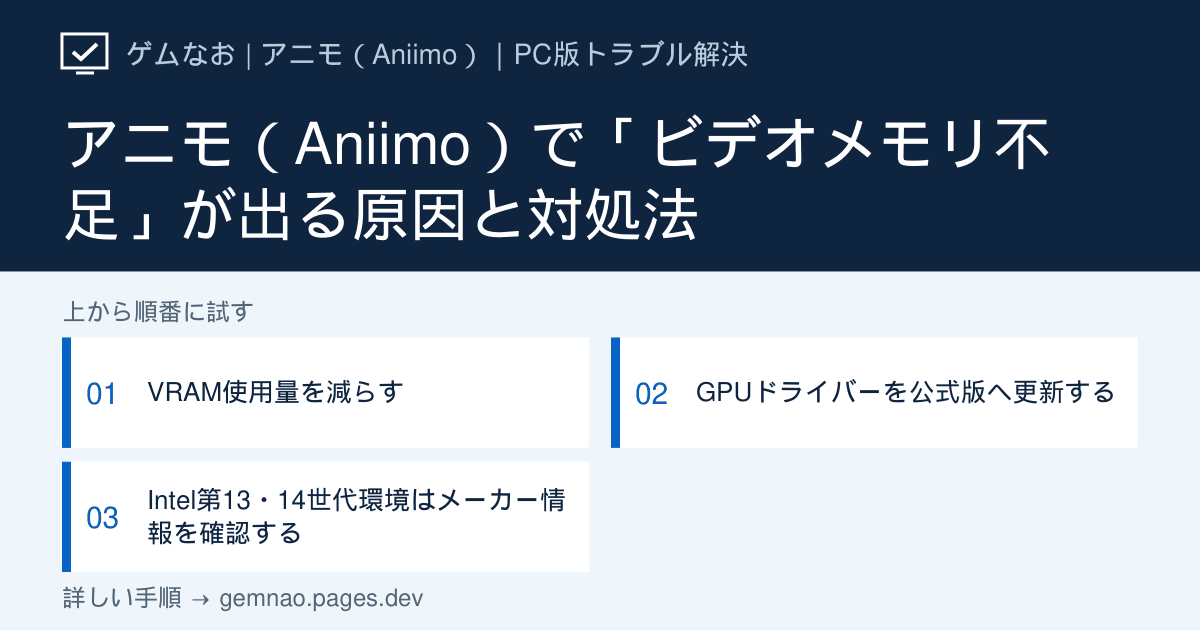
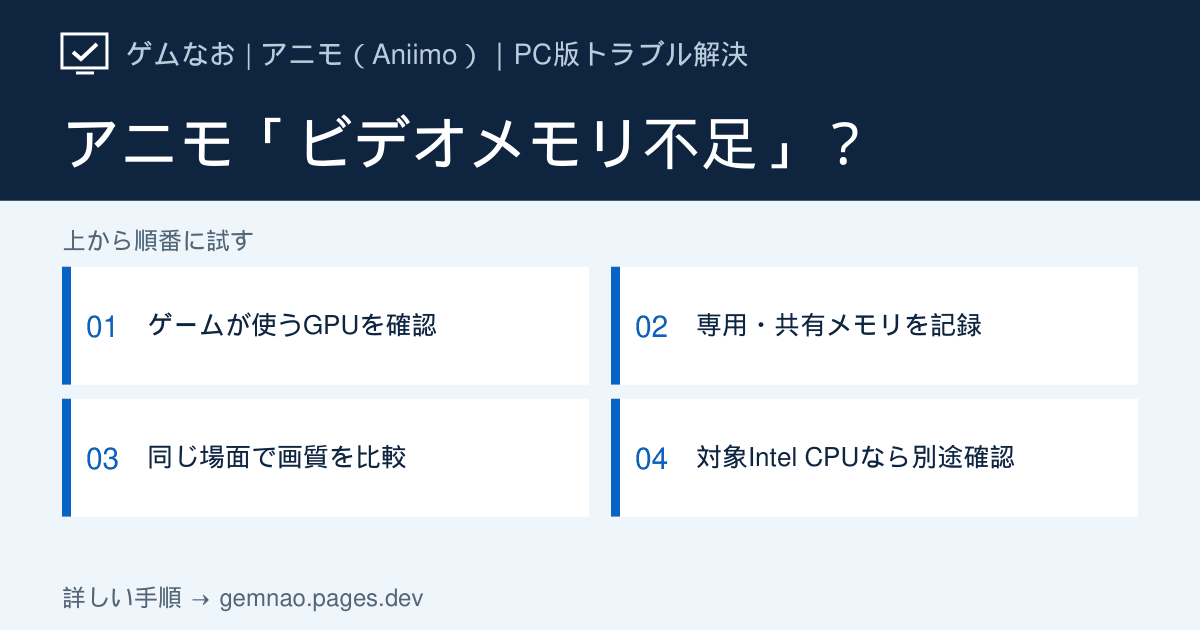
Rewrite Aniimo video memory troubleshooting and Intel branch

diff --git a/lib/aniimo-articles.ts b/lib/aniimo-articles.ts
@@ -666,98 +666,196 @@ export const aniimoArticles: GameArticle[] = [
     gameSlug: 'aniimo',
     slug: 'video-memory-error',
     category: 'display',
-    title: 'アニモ（Aniimo）で「ビデオメモリ不足」が出る原因と対処法',
+    title:
+      'アニモ（Aniimo）の「ビデオメモリ不足」の直し方｜GPUメモリの見方とIntel CPUの確認',
     shortTitle: 'ビデオメモリ不足',
     symptom:
-      '起動時やプレイ中にビデオメモリ不足を示す表示が出る、または描画開始時に終了する場合の確認手順です。',
+      '「ビデオメモリ不足」と表示されて終了する、画質を下げても同じエラーが出る。表示とGPUメモリ使用量が一致するか確かめ、Intel第13・14世代デスクトップCPUの場合は別の原因も調べます。',
     conclusion:
-      '高負荷な設定と同時起動アプリを減らし、GPUドライバーを更新します。Intel第13・14世代CPUを使う場合も、Aniimo公式が原因と確認したとは断定せず、PCメーカーの案内で更新状況を確認します。',
+      'タスクマネージャーで、Aniimoが使うGPUの「専用 GPU メモリ」と「共有 GPU メモリ」を記録。テクスチャを1段階下げ、同じ場面で使用量とエラーの有無を比較します。画質を下げても繰り返す場合、対象のIntel第13・14世代デスクトップCPUでは公式が案内するシステムの安定性問題も確認します。',
     description:
-      'この表示はGPUのVRAM使用量だけでなく、ドライバーやシステム安定性の影響でも発生する場合があります。危険を伴うBIOS操作を自己流で行わず、PC・マザーボードメーカーの正式な手順を使ってください。',
-    checkedAt,
+      '「ビデオメモリ不足」と出ても、GPUメモリが満杯だったと即断はできません。専用・共有メモリの数値の読み方、同じ条件で画質を比較する方法、Intel対象CPUで繰り返す場合の相談先を説明します。',
+    checkedAt: '2026-09-27',
     status: 'verified',
-    targetVersion,
+    targetVersion: 'Windows PC版（公式ランチャー・Steam）／2026年9月27日確認',
+    quickFacts: [
+      {
+        label: '使用量の確認場所',
+        value:
+          'Ctrl＋Shift＋Esc →「パフォーマンス」→ ゲームが使うGPU → 専用／共有 GPU メモリ',
+      },
+      {
+        label: '専用と共有の違い',
+        value:
+          '独立型GPUの「専用」は主にVRAM。「共有」は必要に応じて使うシステムメモリで、VRAMの増設分ではない',
+      },
+      {
+        label: '比較の例（実測値ではありません）',
+        value:
+          '同じ場面で専用7.6／8GB → テクスチャを下げて5.2／8GB。エラーも消えたか併せて確認',
+      },
+      {
+        label: 'Intel対象CPUで繰り返す',
+        value:
+          'Aniimo公式が別原因の可能性を案内。PC・マザーボードメーカーのBIOS情報を確認',
+      },
+    ],
     causes: [
-      'テクスチャ品質・解像度に対してGPUのVRAMが不足している',
-      'ブラウザー、録画、生成AIなどがGPUメモリを使用している',
-      'GPUドライバーが古い、または更新後に再起動していない',
-      '一部のIntel第13・14世代デスクトップCPU環境で報告されたシステム不安定性（Aniimo固有と確認された原因ではありません）',
+      '選んだGPUの専用メモリに対してテクスチャなどの描画負荷が高い',
+      '録画・ブラウザーなど別のアプリも同じGPUのメモリを使っている',
+      'GPUドライバーまたはゲームファイルの不具合',
+      'Aniimo公式が報告した、一部Intel第13・14世代CPU搭載環境でのシステム不安定性',
     ],
     symptoms: [
-      { label: '起動時に不足と表示', target: 'reduce-vram' },
-      { label: '高画質にすると落ちる', target: 'reduce-vram' },
-      { label: 'ほかのゲームでも同じエラー', target: 'check-system' },
+      { label: 'GPUメモリをどこで見る？', target: 'read-gpu-memory' },
+      { label: '画質を上げると落ちる', target: 'compare-settings' },
+      { label: '数値は低いのにエラーが出る', target: 'check-other-causes' },
+      { label: 'Intel第13・14世代で繰り返す', target: 'check-intel-cpu' },
+    ],
+    diagnosis: [
+      {
+        symptom:
+          '実行中、専用GPUメモリの使用量が上限に近く、画質を下げるとエラーも減る',
+        cause: '描画負荷と空き容量の関係を同じ場面で再確認',
+        stepId: 'compare-settings',
+      },
+      {
+        symptom: '共有GPUメモリの最大値が大きいので、VRAMも多いと思った',
+        cause: '共有はシステムメモリ。使用量と上限、GPUの種類を分けて読む',
+        stepId: 'read-gpu-memory',
+      },
+      {
+        symptom:
+          '使用量が上限から離れている／画質を下げても同じエラーを繰り返す',
+        cause:
+          '瞬間的な増加の見逃しに注意しつつ、ドライバー・ファイル・CPU側も確認',
+        stepId: 'check-other-causes',
+      },
+      {
+        symptom:
+          '第13・14世代IntelデスクトップCPUで、Aniimoが繰り返しクラッシュする',
+        cause: 'Aniimo公式とIntelが案内する対象CPUの安定性問題を照合',
+        stepId: 'check-intel-cpu',
+      },
     ],
     steps: [
       {
-        id: 'reduce-vram',
-        title: 'VRAM使用量を減らす',
-        summary: '最初に、安全に戻せるゲーム設定と同時起動アプリを見直します。',
-        actions: [
-          'ブラウザー、録画、画像生成などGPUを使うアプリを終了する',
-          'テクスチャ品質を1段階下げる',
-          '解像度またはレンダリング解像度を下げる',
-          'ゲームを再起動し、同じ場面で比較する',
-        ],
-      },
-      {
-        id: 'update-vram-driver',
-        title: 'GPUドライバーを公式版へ更新する',
-        summary: 'GPUメーカーが提供する正式なドライバーで再確認します。',
-        actions: [
-          'タスクマネージャーの「パフォーマンス」でGPU名を確認する',
-          'NVIDIA・AMD・Intelの公式サイトから対応ドライバーを入手する',
-          'インストール後にWindowsを再起動する',
-          '低い画質設定のままAniimoを起動する',
-        ],
-      },
-      {
-        id: 'check-system',
-        title: 'Intel第13・14世代環境はメーカー情報を確認する',
+        id: 'read-gpu-memory',
+        title: 'ゲームが使うGPUの専用・共有メモリを読む',
         summary:
-          '同じエラーが複数のゲームで出る場合に限り、システム側の安定性も確認します。',
+          'エラーが出た後だけでなく、Aniimoを動かしている間の数値を控えます。',
         actions: [
-          'CPU型番とPCまたはマザーボードの製品名を確認する',
-          'メーカー公式サポートでBIOS・マイクロコード更新情報を確認する',
-          '更新する場合は、その製品専用の公式手順だけに従う',
-          '不明な場合はメーカーサポートへ相談する',
+          'Ctrl＋Shift＋Escでタスクマネージャーを開き、「パフォーマンス」→「GPU 0／GPU 1」を表示する。複数ある場合は「詳細」の列見出しを右クリック→「列の選択」→「GPUエンジン」を追加し、Aniimoのプロセスに表示されるGPU番号と「パフォーマンス」のGPU名を照合する。',
+          'ゲームが動いている間に、そのGPUの「専用 GPU メモリ」と「共有 GPU メモリ」の使用量／上限（例：5.2／8GB）を記録する。起動前と、エラーが起きやすい場面の両方を見て、可能ならスクリーンショットを残す。',
+          '独立型GPUでは「専用」は主にGPU上のVRAM、「共有」はPC本体のメモリを必要に応じて使う枠。共有の上限を専用VRAMの容量に足して、同等の高速なVRAMがあると解釈しない。内蔵GPUの「専用」は予約されたシステムメモリの場合がある。',
         ],
-        note: 'Aniimo公式がIntel CPUを原因として確認したという意味ではありません。BIOS更新は失敗時の影響が大きいため、汎用手順では案内しません。',
+        note: 'ゲーム終了後は使用量が下がるため、クラッシュ後の数値だけでは直前のピークは分かりません。複数GPUがある場合、GPU 0が必ずゲーム用とは限りません。',
+      },
+      {
+        id: 'compare-settings',
+        title: 'テクスチャを1段階下げ、同じ場面で数値とエラーを比較する',
+        summary: '変更するのは最初に一つだけ。条件をそろえて効果を確かめます。',
+        actions: [
+          '変更前の解像度・テクスチャ品質・起動しているほかのアプリ、比較する場所と視点を控える。ゲームに入れるなら、毎回同じ場所・同じ視点で数値とエラーの有無を記録する。',
+          'Aniimoの画質設定でテクスチャ品質を1段階下げ、表示上必要ならゲームを再起動する。画面に入れず設定を変えられない場合は無理にゲームファイルを編集せず、次の手順へ進む。',
+          '同じ場面・同じ解像度で専用／共有GPUメモリを再確認する。たとえば「専用7.6／8GBで落ちた→5.2／8GBで落ちない」なら描画負荷が関係する手がかりになる。これは説明用の数値でAniimoの実測結果ではない。',
+          '変化が小さければ、別アプリの録画・ブラウザーを終了して再比較する。数値が下がってもエラーが続く場合はメモリ不足と決めつけず、ドライバー・ゲームファイル・対象CPUを調べる。',
+        ],
+        note: 'クラッシュ直前の瞬間的なメモリ増加はタスクマネージャーで見逃す場合があります。低い数値だけでVRAMを原因から除外しないでください。',
+      },
+      {
+        id: 'check-other-causes',
+        title:
+          '画質を下げても繰り返す場合、ドライバーとゲームファイルを確認する',
+        summary:
+          'GPU名と更新状況を記録し、起動元に合った公式の修復機能を使います。',
+        actions: [
+          '「パフォーマンス」→実際にAniimoが使うGPUでGPU名を控え、NVIDIA・AMD・IntelまたはPCメーカーの公式サイトで、その製品向けドライバーの更新案内を確認する。更新したらWindowsを再起動する。',
+          '公式ランチャー版はゲームを終了してランチャー右上「設定」→「ワンクリック修復」。Steam版はライブラリのAniimoを右クリック→「プロパティ」→「インストール済みファイル」→ゲームファイルの整合性を確認する。',
+          '変更前と同じ場面を再度確認する。同じエラーが続く場合は表示文、発生時刻、使用GPU・CPU名、専用／共有メモリの記録を残し、Intel対象CPUなら次の分岐へ進む。',
+        ],
+      },
+      {
+        id: 'check-intel-cpu',
+        title:
+          'Intel第13・14世代デスクトップCPUなら、公式の安定性情報を確認する',
+        summary:
+          'Aniimo公式は、対象環境で「ビデオメモリ不足」と表示されるクラッシュも案内しています。',
+        actions: [
+          'Windowsの「設定」→「システム」→「バージョン情報」でプロセッサ名を確認し、Intel第13・14世代のデスクトップCPUに該当するかAniimo公式の対象一覧と照合する。ほかのゲームでも落ちるか、ブルースクリーンが起きるかも記録する。',
+          'PCまたはマザーボードの正確な型番を控え、そのメーカーのサポートページで、対象機種向けの最新BIOSとIntelマイクロコードの対応状況を確認する。Intelの現行案内は0x12F以降を含む最新BIOSと「Intel Default Settings」を推奨している。',
+          '更新方法に迷う、更新後も落ちる、別のゲームでも不安定な場合は、PC・マザーボードメーカーまたはAniimo公式サポートに、CPU／製品型番・エラー文・再現した場面を伝える。対象外CPUなら、この分岐だけで原因を断定せず別の要因を調べる。',
+        ],
+        note: 'Intelが説明するVmin Shiftの対象は一部デスクトップCPUで、同世代のモバイルCPUはこの問題の対象外です。Aniimo公式にはXTUでの倍率変更も載っていますが、ここでは設定値の一律変更は勧めません。BIOSは型番に合うメーカー公式手順に従い、不明ならサポートへ相談してください。',
       },
     ],
     cautions: [
-      'BIOS更新中の電源断や別製品向けファイルの使用は起動不能につながります。メーカー公式手順を確認できない場合は実行しないでください。',
-      'レジストリ変更や非公式の電圧設定を、最初の対処として行わないでください。',
+      '「共有GPUメモリ」の上限値を、実際に使用中の量や搭載VRAMの増加分と混同しないでください。',
+      'BIOS更新は製品型番に合うメーカー公式の案内を確認してから行ってください。',
+    ],
+    avoid: [
+      'クラッシュ後にメモリ使用量が低いだけで原因を断定する',
+      '実際にゲームが使うGPUを調べず、GPU 0の数字だけを見る',
+      '製品型番を確かめず別のマザーボード用BIOSを適用する',
     ],
     faqs: [
       {
-        question: 'ビデオメモリ不足はVRAMを増設すれば直りますか？',
+        question: '「専用8GB＋共有8GB」なら16GBのVRAMとして使えますか？',
         answer:
-          '多くのGPUはVRAMだけを増設できません。まずテクスチャ・解像度を下げ、同時起動アプリとドライバーを確認してください。',
+          '同じVRAMとしては扱えません。独立型GPUの専用メモリはGPU上のVRAMですが、共有メモリはPC本体のメモリをGPUも使えるようにしたものです。タスクマネージャーでは、上限の合計より専用／共有それぞれの「現在の使用量」を見てください。',
       },
       {
-        question: 'Intel第13・14世代CPUなら必ずBIOS更新が必要ですか？',
+        question:
+          '専用GPUメモリに余裕があるのに「ビデオメモリ不足」と出るのはなぜ？',
         answer:
-          '必ずではありません。Aniimo固有の原因と公式確認された情報ではないため、ほかのゲームでも同じ症状が出るかを確認し、PC・マザーボードメーカーの対象製品向け案内を優先してください。',
+          '終了後には使用量が下がり、瞬間的な増加を記録できていない場合があります。一方、Aniimo公式はIntel第13・14世代の対象CPU環境で同じ文言のクラッシュが起こり得ると案内しています。画質変更前後の結果とCPU型番を合わせて判断してください。',
+      },
+      {
+        question: '第13・14世代Intel搭載ノートPCも同じCPU問題の対象ですか？',
+        answer:
+          'Intelが説明するVmin Shiftの対象はデスクトップ向けCPUで、モバイルCPUは対象外としています。ノートPCでも別の原因で同じエラーが起きる可能性はあるため、GPUメモリとドライバーの確認を進め、機種ごとのメーカー案内を参照してください。',
       },
     ],
     sources: [
-      officialNews,
-      steamStore,
+      aniimoIntelIssue,
+      pcLaunchFaq,
       {
-        label: 'Intel公式：第13・14世代デスクトップCPUの保証延長',
-        url: 'https://community.intel.com/t5/Processors/Intel-Core-13th-14th-Gen-Desktop-Processors-VLSI-Instability/m-p/1620853',
+        label:
+          'Microsoft DirectX公式：タスクマネージャーの専用・共有GPUメモリの読み方',
+        url: 'https://devblogs.microsoft.com/directx/gpus-in-the-task-manager/',
       },
+      {
+        label: 'Intel公式：第13・14世代デスクトップCPUの最新の安定性対策',
+        url: 'https://www.intel.com/content/www/us/en/support/articles/000102331/processors.html',
+      },
+      {
+        label: 'Intel公式：デスクトップCPUの対象範囲とモバイルCPUの扱い',
+        url: 'https://community.intel.com/t5/Mobile-and-Desktop-Processors/Intel-Core-13th-and-14th-Gen-Desktop-Instability-Root-Cause/td-p/1633442',
+      },
+      steamVerifyGuide,
+      steamStore,
       {
         label: 'NVIDIA公式ドライバー',
         url: 'https://www.nvidia.com/Download/index.aspx',
       },
       { label: 'AMD公式サポート', url: 'https://www.amd.com/en/support' },
+      {
+        label: 'Intel公式：グラフィックスドライバーの検出と更新',
+        url: 'https://www.intel.com/content/www/us/en/support/detect.html',
+      },
     ],
     related: related.filter((slug) => slug !== 'video-memory-error'),
-    seoTitle: 'アニモ（Aniimo）のビデオメモリ不足エラー原因と対処法【PC版】',
+    seoTitle:
+      'アニモのビデオメモリ不足｜GPUメモリの見方・画質比較・Intel CPUの確認',
     metaDescription:
-      'アニモ（Aniimo）でビデオメモリ不足が出るときの対処法。VRAM使用量、GPUドライバー、Intel第13・14世代環境を安全な順番で確認します。',
+      'アニモ（Aniimo）のビデオメモリ不足エラーを切り分け。Windowsで専用・共有GPUメモリを調べ、同じ場面で画質変更前後を比較。Intel第13・14世代CPUの公式案内も確認。',
+    ogTitle: 'アニモ「ビデオメモリ不足」？',
+    ogSteps: [
+      'ゲームが使うGPUを確認',
+      '専用・共有メモリを記録',
+      '同じ場面で画質を比較',
+      '対象Intel CPUなら別途確認',
+    ],
   },
   {
     gameSlug: 'aniimo',

diff --git a/lib/og-image-manifest.ts b/lib/og-image-manifest.ts
@@ -39,7 +39,7 @@ export const ogImageManifest: Record<string, string> = {
   "/games/aniimo/launcher-display": "950a3a59",
   "/games/aniimo/login-error": "6262e42b",
   "/games/aniimo/not-launching": "0cedb67a",
-  "/games/aniimo/video-memory-error": "eedbb3ce",
+  "/games/aniimo/video-memory-error": "dadcd94a",
   "/games/elden-ring": "7b6f68c6",
   "/games/elden-ring/fps": "de4d8353",
   "/games/elden-ring/hdr": "3917e885",
